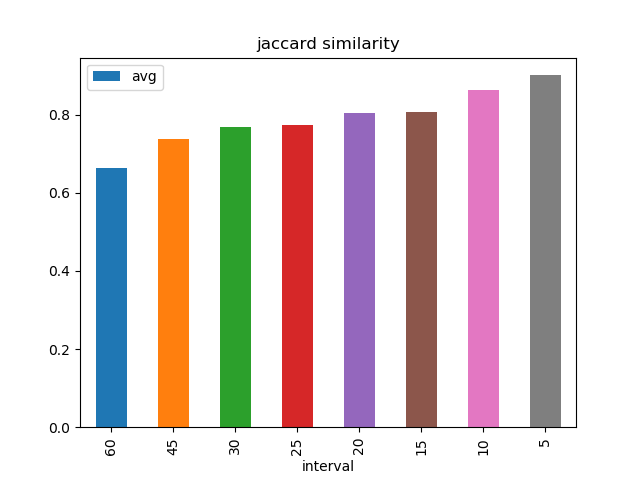
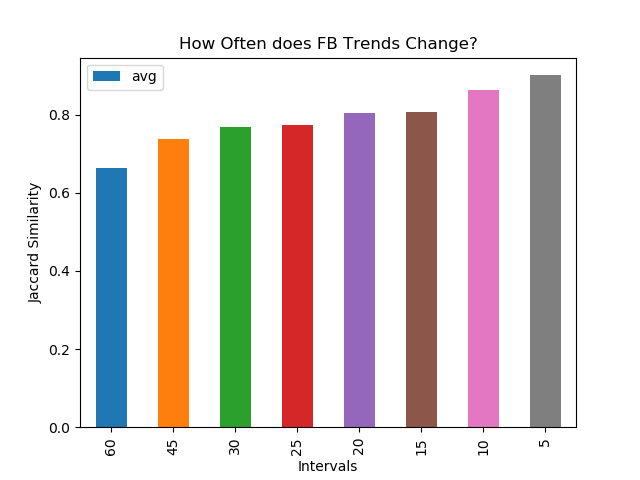
commited graph 5,10,15,20,25,30,45,60

Changed region(s): [[0.2812, 0.0625, 0.75, 0.125], [0.0312, 0.375, 0.0625, 0.625], [0.4688, 0.9375, 0.5625, 1.0]]

diff --git a/jaccard.py b/jaccard.py
@@ -68,9 +68,13 @@ def create_input(avg):
 
 def plot():
     df = pd.read_csv(os.path.join("jaccard_CSV//", filename+".csv"))
-    ax = df.plot.bar(title="jaccard similarity", x='interval', y='avg', legend=True)
+    ax = df.plot.bar(title="How Often does FB Trends Change?", x='interval', y='avg', legend=True)
+    y = df['avg']
+    ax.set_ylabel("Jaccard Similarity")
+    ax.set_xlabel("Intervals")
+    # for i, v in enumerate(y):
+    #     ax.text(v, i, str(v), color='blue', fontweight='bold')
     fig = ax.get_figure()
-    #plt.show()
     fig.savefig("..//selenium_env//graphs//"+time_interval_filename+".png")
 
 def create_csv():
